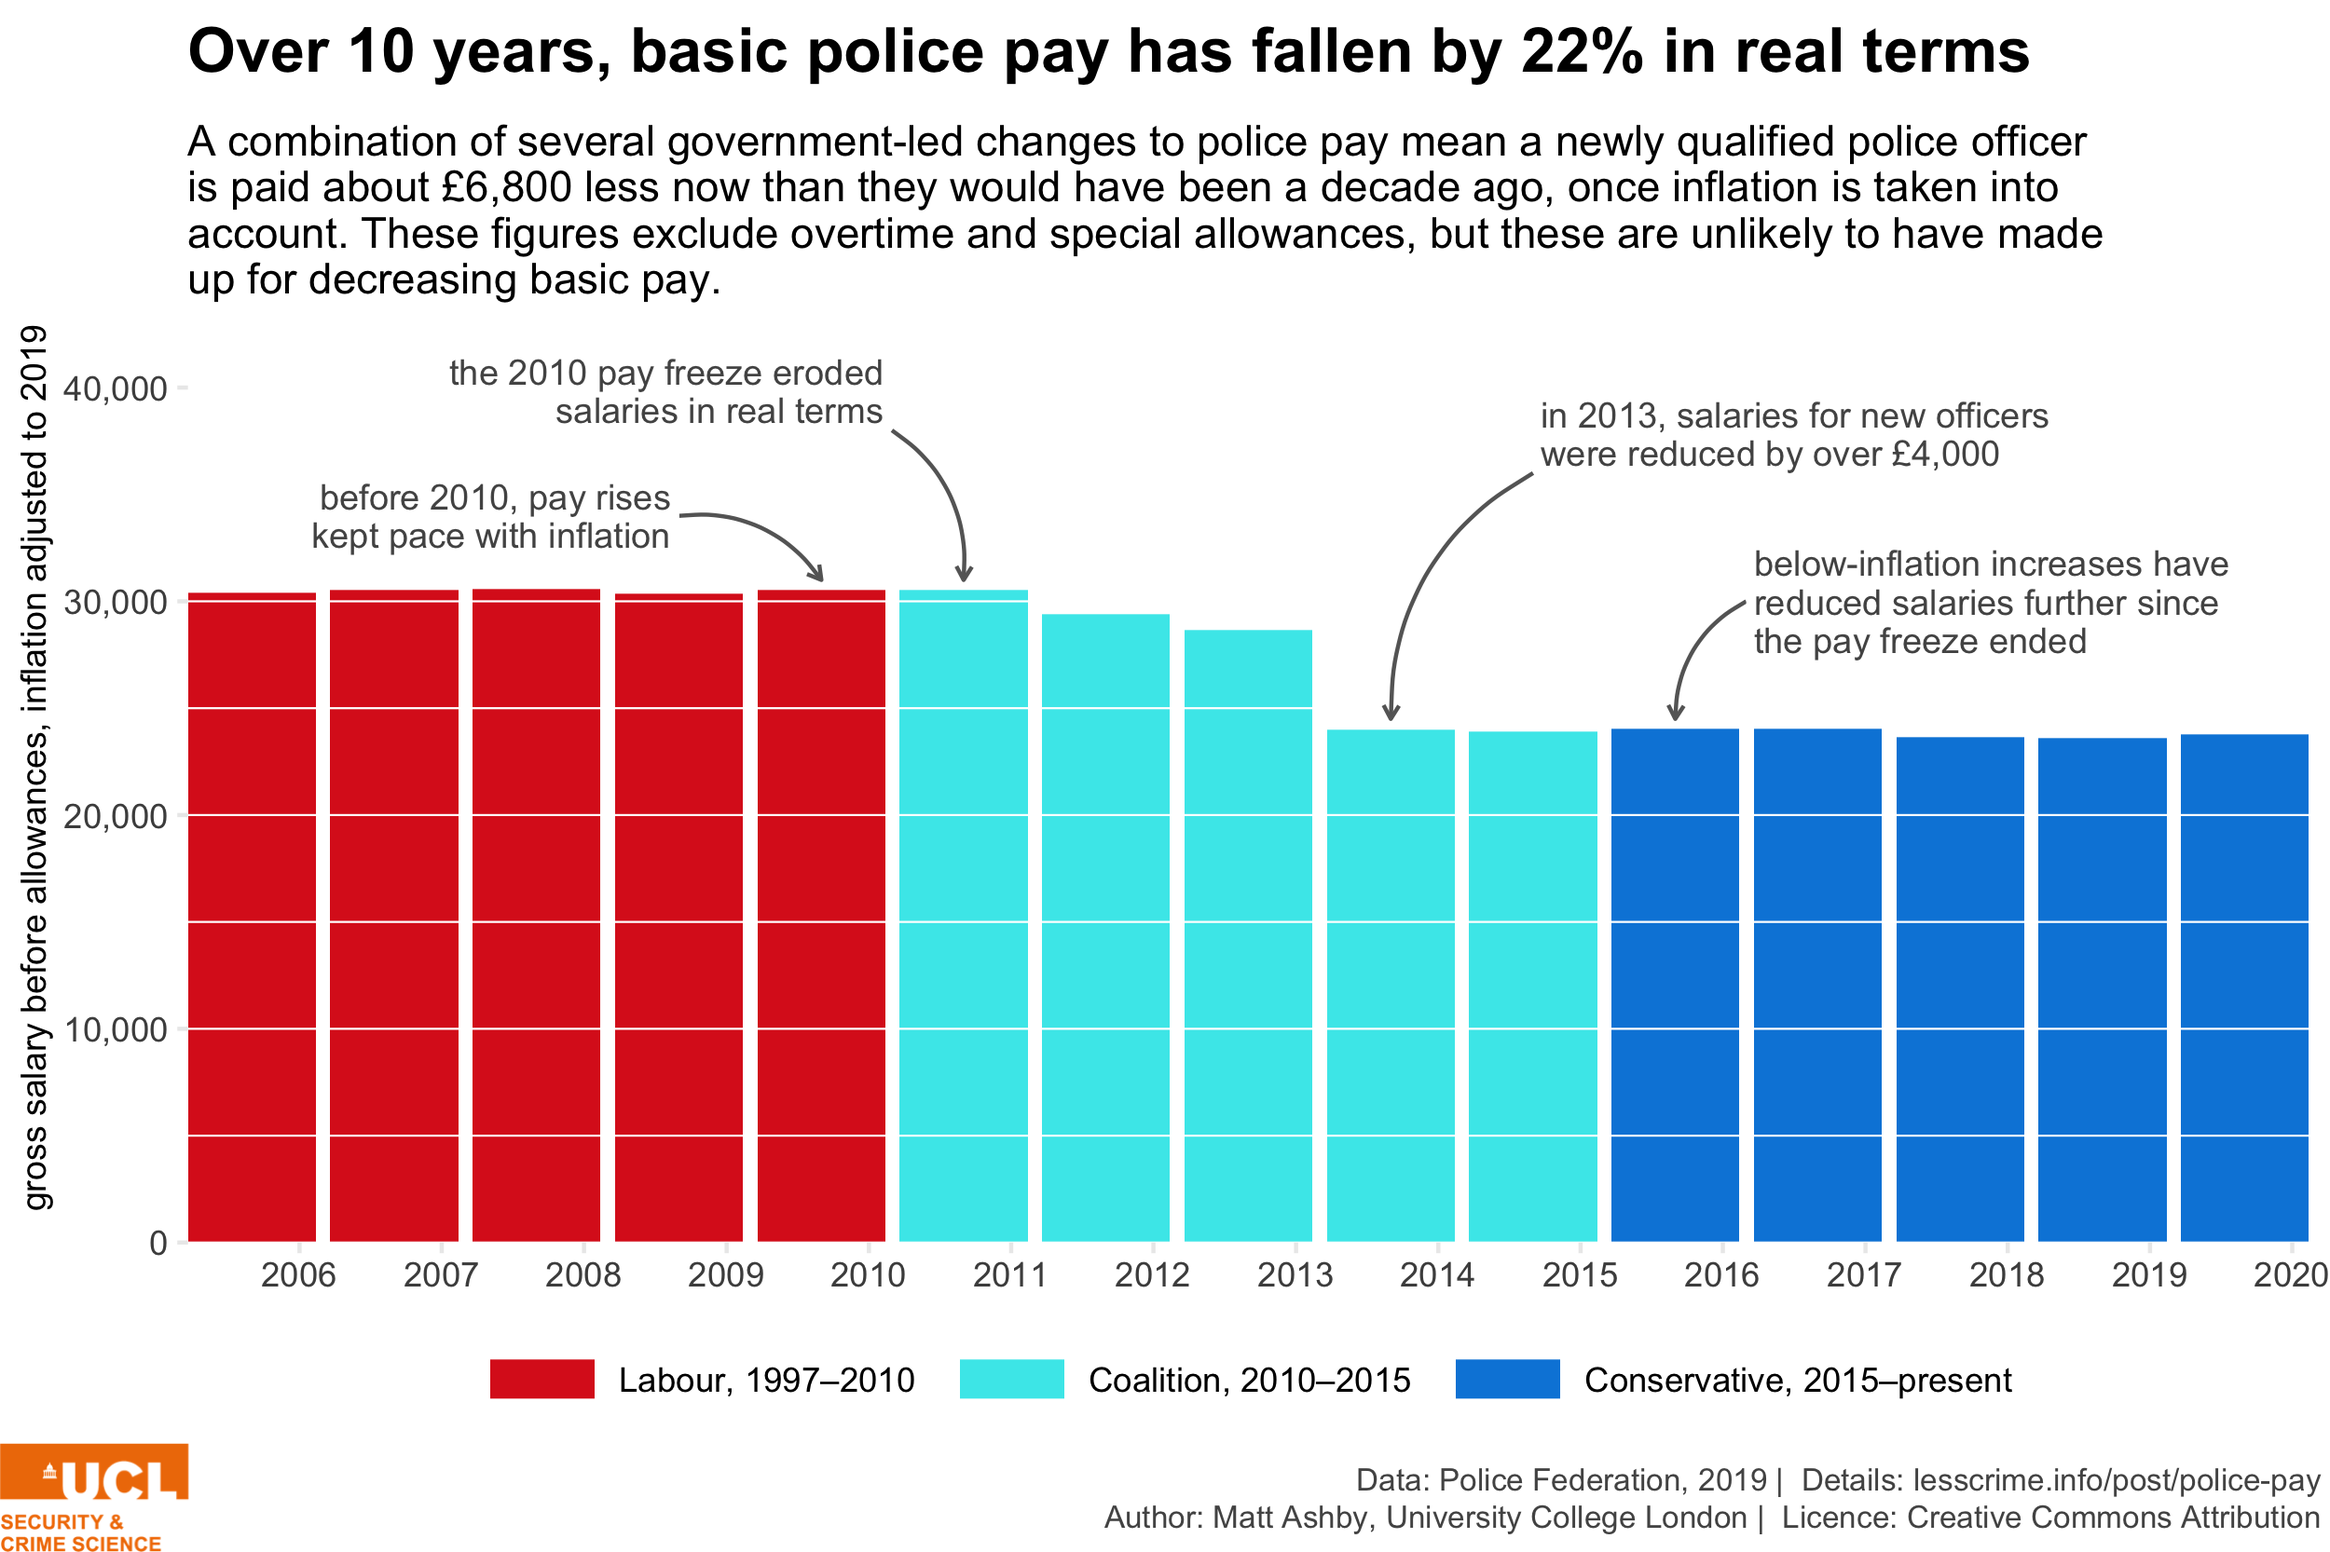
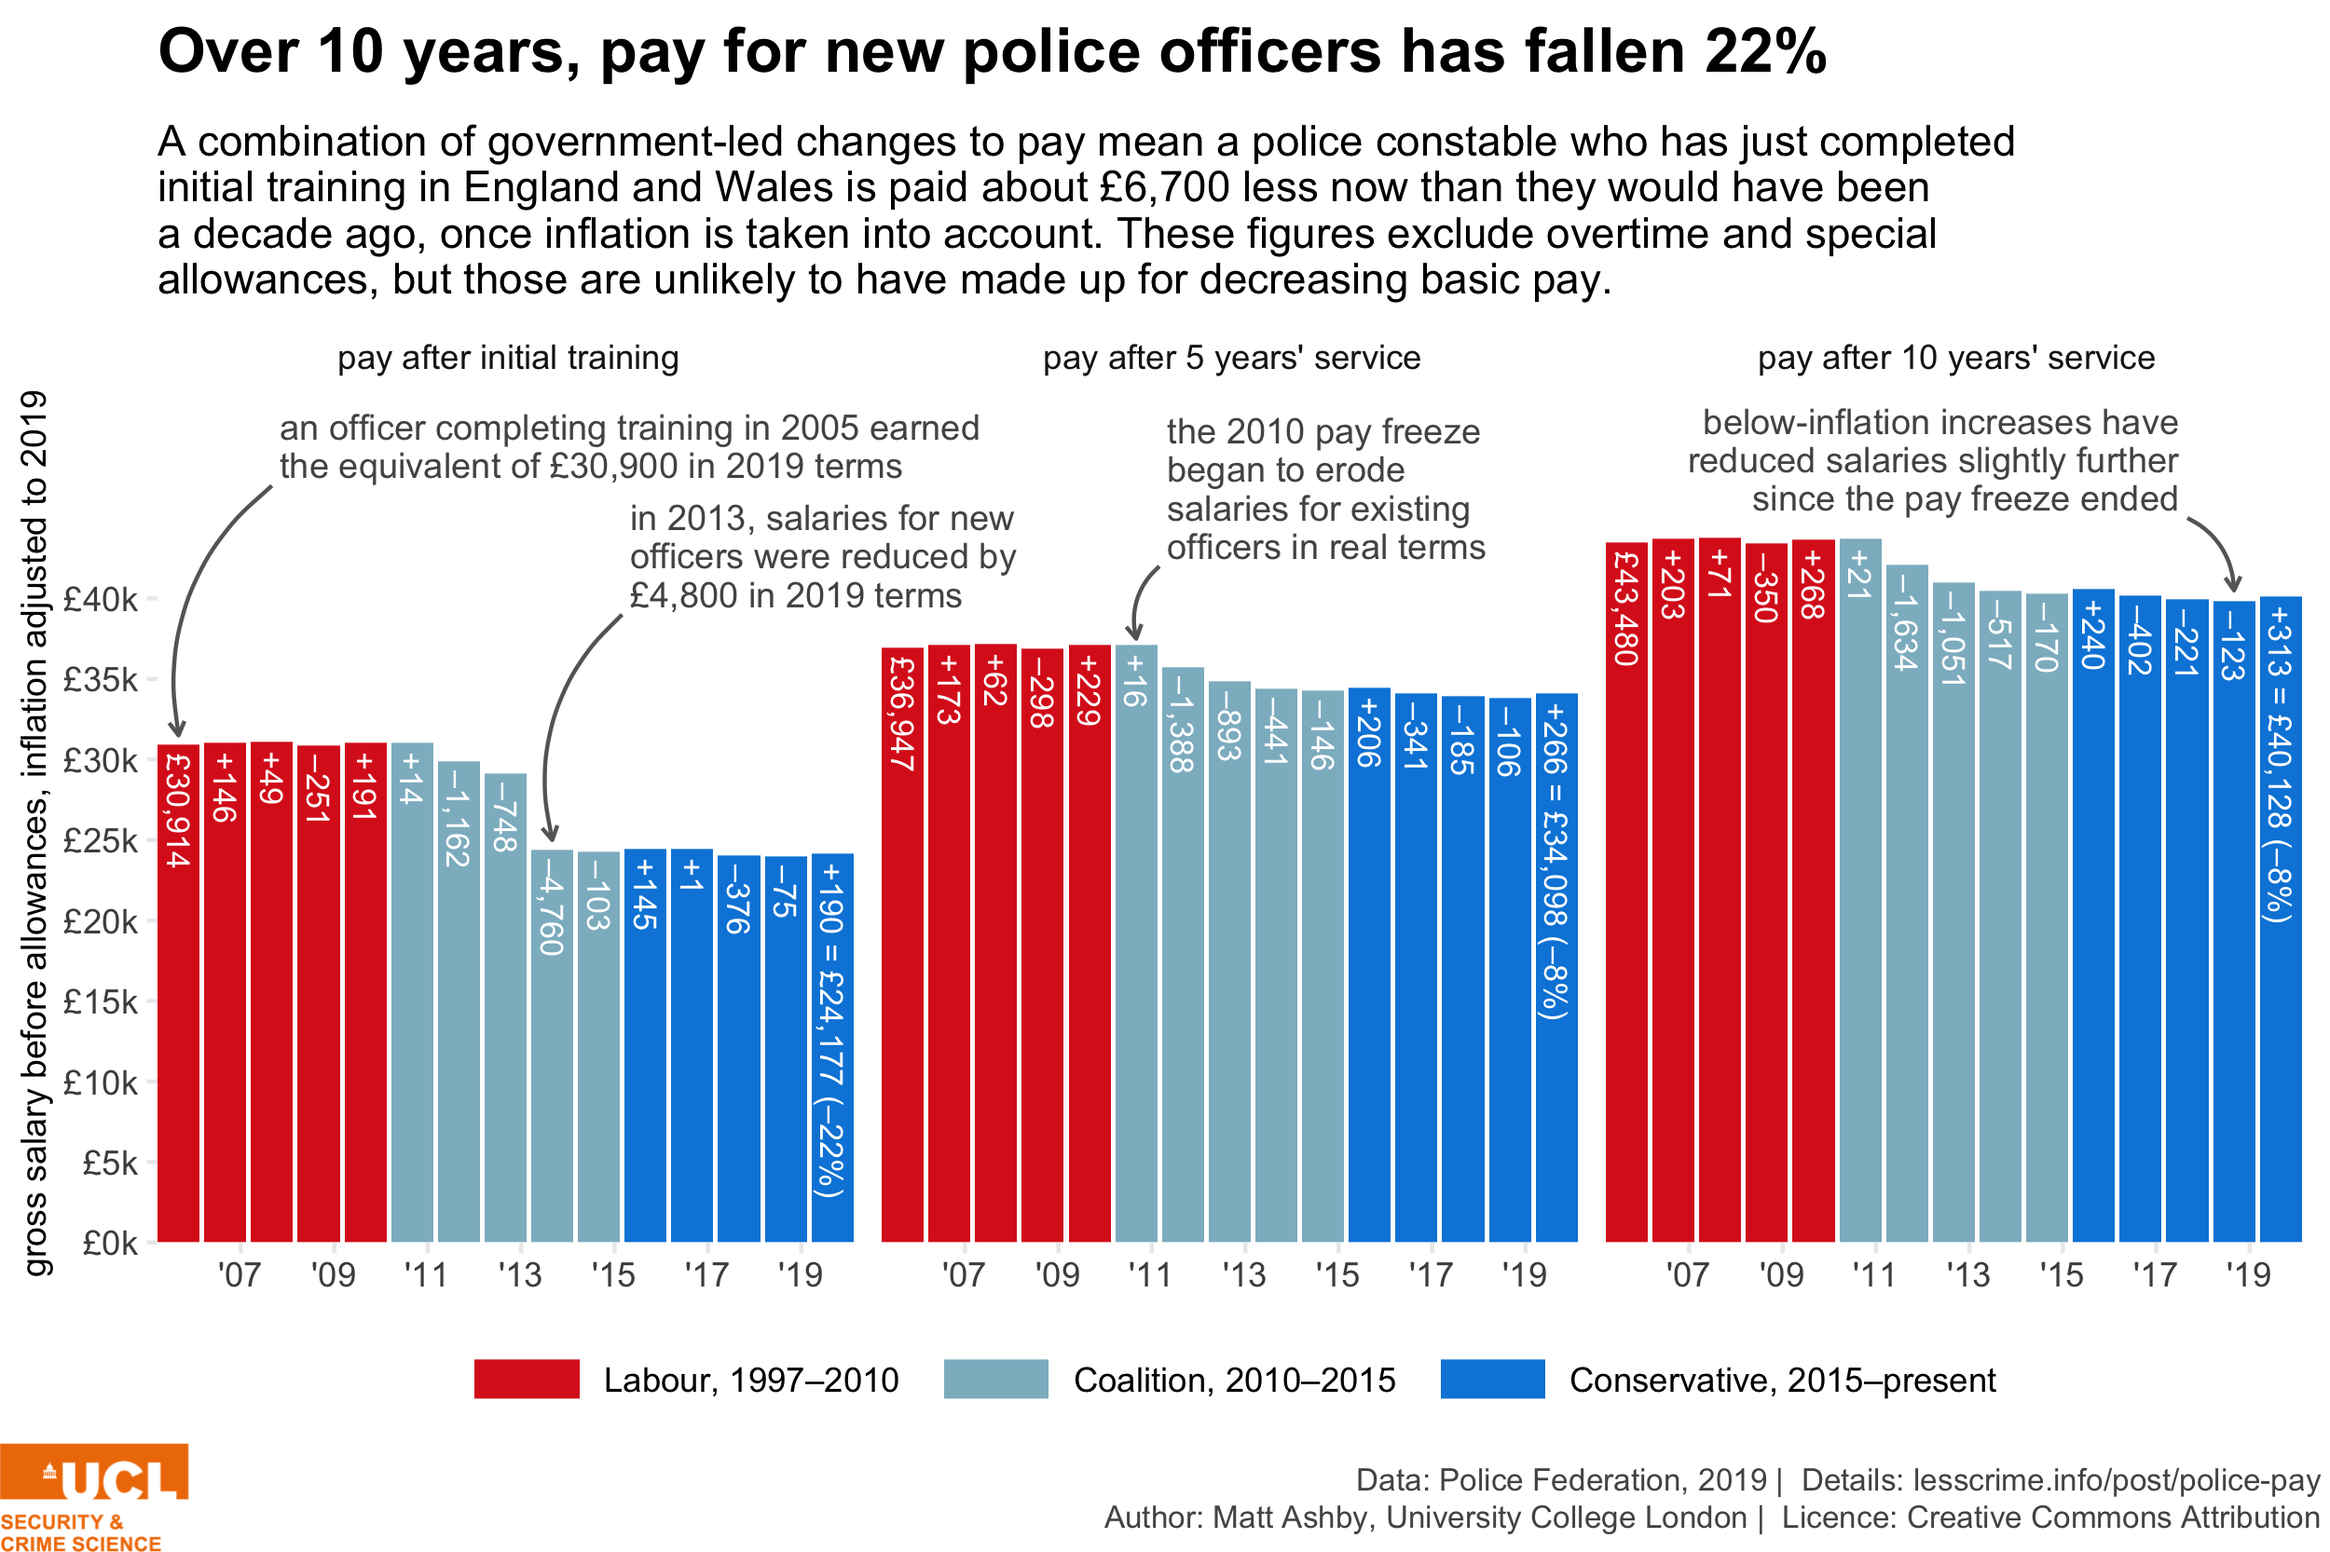
Add police pay chart

diff --git a/public/post/police-pay/index.html b/public/post/police-pay/index.html
@@ -28,9 +28,8 @@
   
     
   
-  <meta name="description" content="A combination of several government-led changes to police pay mean a newly qualified police officer is paid about £6,800 less now than they would have been a decade ago, once inflation is taken into account. These figures exclude overtime and special allowances, but these are unlikely to have made up for decreasing basic pay.
-larger image | PDF | annotated R code to produce this chart
-Data source: Police Federation, 2019">
+  <meta name="description" content="A combination of government-led changes to pay mean a police constable who has just completed initial training in England and Wales is paid about £6,700 less now than they would have been a decade ago, once inflation is taken into account. These figures exclude overtime and special allowances, but those are unlikely to have made up for decreasing basic pay.
+larger image | annotated R code to produce this chart">
 
   
   <link rel="alternate" hreflang="en-us" href="/post/police-pay/">
@@ -117,9 +116,8 @@ Data source: Police Federation, 2019">
   <meta property="og:site_name" content="Matt Ashby">
   <meta property="og:url" content="/post/police-pay/">
   <meta property="og:title" content="Chart: Over 10 years, basic police pay has fallen by 22% in real terms | Matt Ashby">
-  <meta property="og:description" content="A combination of several government-led changes to police pay mean a newly qualified police officer is paid about £6,800 less now than they would have been a decade ago, once inflation is taken into account. These figures exclude overtime and special allowances, but these are unlikely to have made up for decreasing basic pay.
-larger image | PDF | annotated R code to produce this chart
-Data source: Police Federation, 2019"><meta property="og:image" content="/img/icon-192.png">
+  <meta property="og:description" content="A combination of government-led changes to pay mean a police constable who has just completed initial training in England and Wales is paid about £6,700 less now than they would have been a decade ago, once inflation is taken into account. These figures exclude overtime and special allowances, but those are unlikely to have made up for decreasing basic pay.
+larger image | annotated R code to produce this chart"><meta property="og:image" content="/img/icon-192.png">
   <meta property="twitter:image" content="/img/icon-192.png"><meta property="og:locale" content="en-us">
   
   <meta property="article:published_time" content="2019-09-16T00:00:00&#43;00:00">
@@ -576,13 +574,14 @@ Data source: Police Federation, 2019"><meta property="og:image" content="/img/ic
       
 
 
-<p>A combination of several government-led changes to police pay mean a newly qualified police officer is paid about £6,800 less now than they would have been a decade ago, once inflation is taken into account. These figures exclude overtime and special allowances, but these are unlikely to have made up for decreasing basic pay.</p>
+<p>A combination of government-led changes to pay mean a police constable who has just completed initial training in England and Wales is paid about £6,700 less now than they would have been a decade ago, once inflation is taken into account. These figures exclude overtime and special allowances, but those are unlikely to have made up for decreasing basic pay.</p>
 <p><img src="/post/police-pay_files/figure-html/display%20plot-1.png" width="672" /></p>
-<p><a href="../police-pay.png">larger image</a> | <a href="../police-pay.pdf">PDF</a>
-| <a href="https://github.com/mpjashby/cj-charts/blob/master/content/police-pay.Rmd">annotated R code to produce this chart</a></p>
+<p><a href="../police-pay.png">larger image</a>
+| <a href="https://github.com/mpjashby/lesscrime.info/blob/master/content/post/police-pay.Rmd">annotated R code to produce this chart</a></p>
 <p>Data source: <a href="https://www.whatdotheyknow.com/request/police_constable_pay_scales">Police Federation, 2019</a></p>
 <p>Pay for years before 2019 has been adjusted for inflation using the <a href="https://www.ons.gov.uk/economy/inflationandpriceindices/timeseries/l522/mm23">Office for
-National Statistics preferred CPIH measure</a>.</p>
+National Statistics preferred CPIH measure</a>.
+For 2019, second-quarter inflation estimates have been used.</p>
 
     </div>
 

diff --git a/content/post/police-pay.html b/content/post/police-pay.html
@@ -11,10 +11,11 @@ tags:
 
 
 
-<p>A combination of several government-led changes to police pay mean a newly qualified police officer is paid about £6,800 less now than they would have been a decade ago, once inflation is taken into account. These figures exclude overtime and special allowances, but these are unlikely to have made up for decreasing basic pay.</p>
+<p>A combination of government-led changes to pay mean a police constable who has just completed initial training in England and Wales is paid about £6,700 less now than they would have been a decade ago, once inflation is taken into account. These figures exclude overtime and special allowances, but those are unlikely to have made up for decreasing basic pay.</p>
 <p><img src="/post/police-pay_files/figure-html/display%20plot-1.png" width="672" /></p>
-<p><a href="../police-pay.png">larger image</a> | <a href="../police-pay.pdf">PDF</a>
-| <a href="https://github.com/mpjashby/cj-charts/blob/master/content/police-pay.Rmd">annotated R code to produce this chart</a></p>
+<p><a href="../police-pay.png">larger image</a>
+| <a href="https://github.com/mpjashby/lesscrime.info/blob/master/content/post/police-pay.Rmd">annotated R code to produce this chart</a></p>
 <p>Data source: <a href="https://www.whatdotheyknow.com/request/police_constable_pay_scales">Police Federation, 2019</a></p>
 <p>Pay for years before 2019 has been adjusted for inflation using the <a href="https://www.ons.gov.uk/economy/inflationandpriceindices/timeseries/l522/mm23">Office for
-National Statistics preferred CPIH measure</a>.</p>
+National Statistics preferred CPIH measure</a>.
+For 2019, second-quarter inflation estimates have been used.</p>

diff --git a/public/categories/crime-and-justice-chart-of-the-week/index.html b/public/categories/crime-and-justice-chart-of-the-week/index.html
@@ -427,9 +427,8 @@
     <h2><a href="/post/police-pay/">Chart: Over 10 years, basic police pay has fallen by 22% in real terms</a></h2>
     <div class="article-style">
       
-      A combination of several government-led changes to police pay mean a newly qualified police officer is paid about £6,800 less now than they would have been a decade ago, once inflation is taken into account. These figures exclude overtime and special allowances, but these are unlikely to have made up for decreasing basic pay.
-larger image | PDF | annotated R code to produce this chart
-Data source: Police Federation, 2019
+      A combination of government-led changes to pay mean a police constable who has just completed initial training in England and Wales is paid about £6,700 less now than they would have been a decade ago, once inflation is taken into account. These figures exclude overtime and special allowances, but those are unlikely to have made up for decreasing basic pay.
+larger image | annotated R code to produce this chart
       
     </div>
   </div>

diff --git a/public/tags/criminal-justice/index.html b/public/tags/criminal-justice/index.html
@@ -427,9 +427,8 @@
     <h2><a href="/post/police-pay/">Chart: Over 10 years, basic police pay has fallen by 22% in real terms</a></h2>
     <div class="article-style">
       
-      A combination of several government-led changes to police pay mean a newly qualified police officer is paid about £6,800 less now than they would have been a decade ago, once inflation is taken into account. These figures exclude overtime and special allowances, but these are unlikely to have made up for decreasing basic pay.
-larger image | PDF | annotated R code to produce this chart
-Data source: Police Federation, 2019
+      A combination of government-led changes to pay mean a police constable who has just completed initial training in England and Wales is paid about £6,700 less now than they would have been a decade ago, once inflation is taken into account. These figures exclude overtime and special allowances, but those are unlikely to have made up for decreasing basic pay.
+larger image | annotated R code to produce this chart
       
     </div>
   </div>

diff --git a/public/tags/police/index.html b/public/tags/police/index.html
@@ -427,9 +427,8 @@
     <h2><a href="/post/police-pay/">Chart: Over 10 years, basic police pay has fallen by 22% in real terms</a></h2>
     <div class="article-style">
       
-      A combination of several government-led changes to police pay mean a newly qualified police officer is paid about £6,800 less now than they would have been a decade ago, once inflation is taken into account. These figures exclude overtime and special allowances, but these are unlikely to have made up for decreasing basic pay.
-larger image | PDF | annotated R code to produce this chart
-Data source: Police Federation, 2019
+      A combination of government-led changes to pay mean a police constable who has just completed initial training in England and Wales is paid about £6,700 less now than they would have been a decade ago, once inflation is taken into account. These figures exclude overtime and special allowances, but those are unlikely to have made up for decreasing basic pay.
+larger image | annotated R code to produce this chart
       
     </div>
   </div>

diff --git a/public/index.html b/public/index.html
@@ -2032,9 +2032,8 @@
 
   
   <div class="article-style" itemprop="articleBody">
-    A combination of several government-led changes to police pay mean a newly qualified police officer is paid about £6,800 less now than they would have been a decade ago, once inflation is taken into account. These figures exclude overtime and special allowances, but these are unlikely to have made up for decreasing basic pay.
-larger image | PDF | annotated R code to produce this chart
-Data source: Police Federation, 2019
+    A combination of government-led changes to pay mean a police constable who has just completed initial training in England and Wales is paid about £6,700 less now than they would have been a decade ago, once inflation is taken into account. These figures exclude overtime and special allowances, but those are unlikely to have made up for decreasing basic pay.
+larger image | annotated R code to produce this chart
   </div>
   
 

diff --git a/public/post/index.html b/public/post/index.html
@@ -451,7 +451,7 @@
 
     
     <div class="article-style" itemprop="articleBody">
-      A combination of several government-led changes to police pay mean a newly qualified police officer is paid about £6,800 less now than …
+      A combination of government-led changes to pay mean a police constable who has just completed initial training in England and Wales is …
     </div>
     
 

diff --git a/public/talk/crime-around-schools/index.html b/public/talk/crime-around-schools/index.html
@@ -418,7 +418,7 @@
 
 
 <meta content="2018-06-05 00:00:00 &#43;0000 UTC" itemprop="datePublished">
-<meta content="2019-07-12 09:41:18 &#43;0100 BST" itemprop="dateModified">
+<meta content="2019-07-12 09:41:18 &#43;0100 &#43;0100" itemprop="dateModified">
 
 <div class="article-metadata">
 

diff --git a/public/talk/leics-ebp-2019/index.html b/public/talk/leics-ebp-2019/index.html
@@ -418,7 +418,7 @@
 
 
 <meta content="2019-03-13 00:00:00 &#43;0000 UTC" itemprop="datePublished">
-<meta content="2019-07-11 17:16:21 &#43;0100 BST" itemprop="dateModified">
+<meta content="2019-07-11 17:16:21 &#43;0100 &#43;0100" itemprop="dateModified">
 
 <div class="article-metadata">
 

diff --git a/public/talk/local-seasonality/index.html b/public/talk/local-seasonality/index.html
@@ -418,7 +418,7 @@
 
 
 <meta content="2018-08-29 00:00:00 &#43;0000 UTC" itemprop="datePublished">
-<meta content="2019-07-12 09:37:01 &#43;0100 BST" itemprop="dateModified">
+<meta content="2019-07-12 09:37:01 &#43;0100 &#43;0100" itemprop="dateModified">
 
 <div class="article-metadata">
 

diff --git a/public/talk/solving-problems-using-evidence-based-policing/index.html b/public/talk/solving-problems-using-evidence-based-policing/index.html
@@ -418,7 +418,7 @@
 
 
 <meta content="2018-03-13 00:00:00 &#43;0000 UTC" itemprop="datePublished">
-<meta content="2019-07-12 09:55:21 &#43;0100 BST" itemprop="dateModified">
+<meta content="2019-07-12 09:55:21 &#43;0100 &#43;0100" itemprop="dateModified">
 
 <div class="article-metadata">
 
